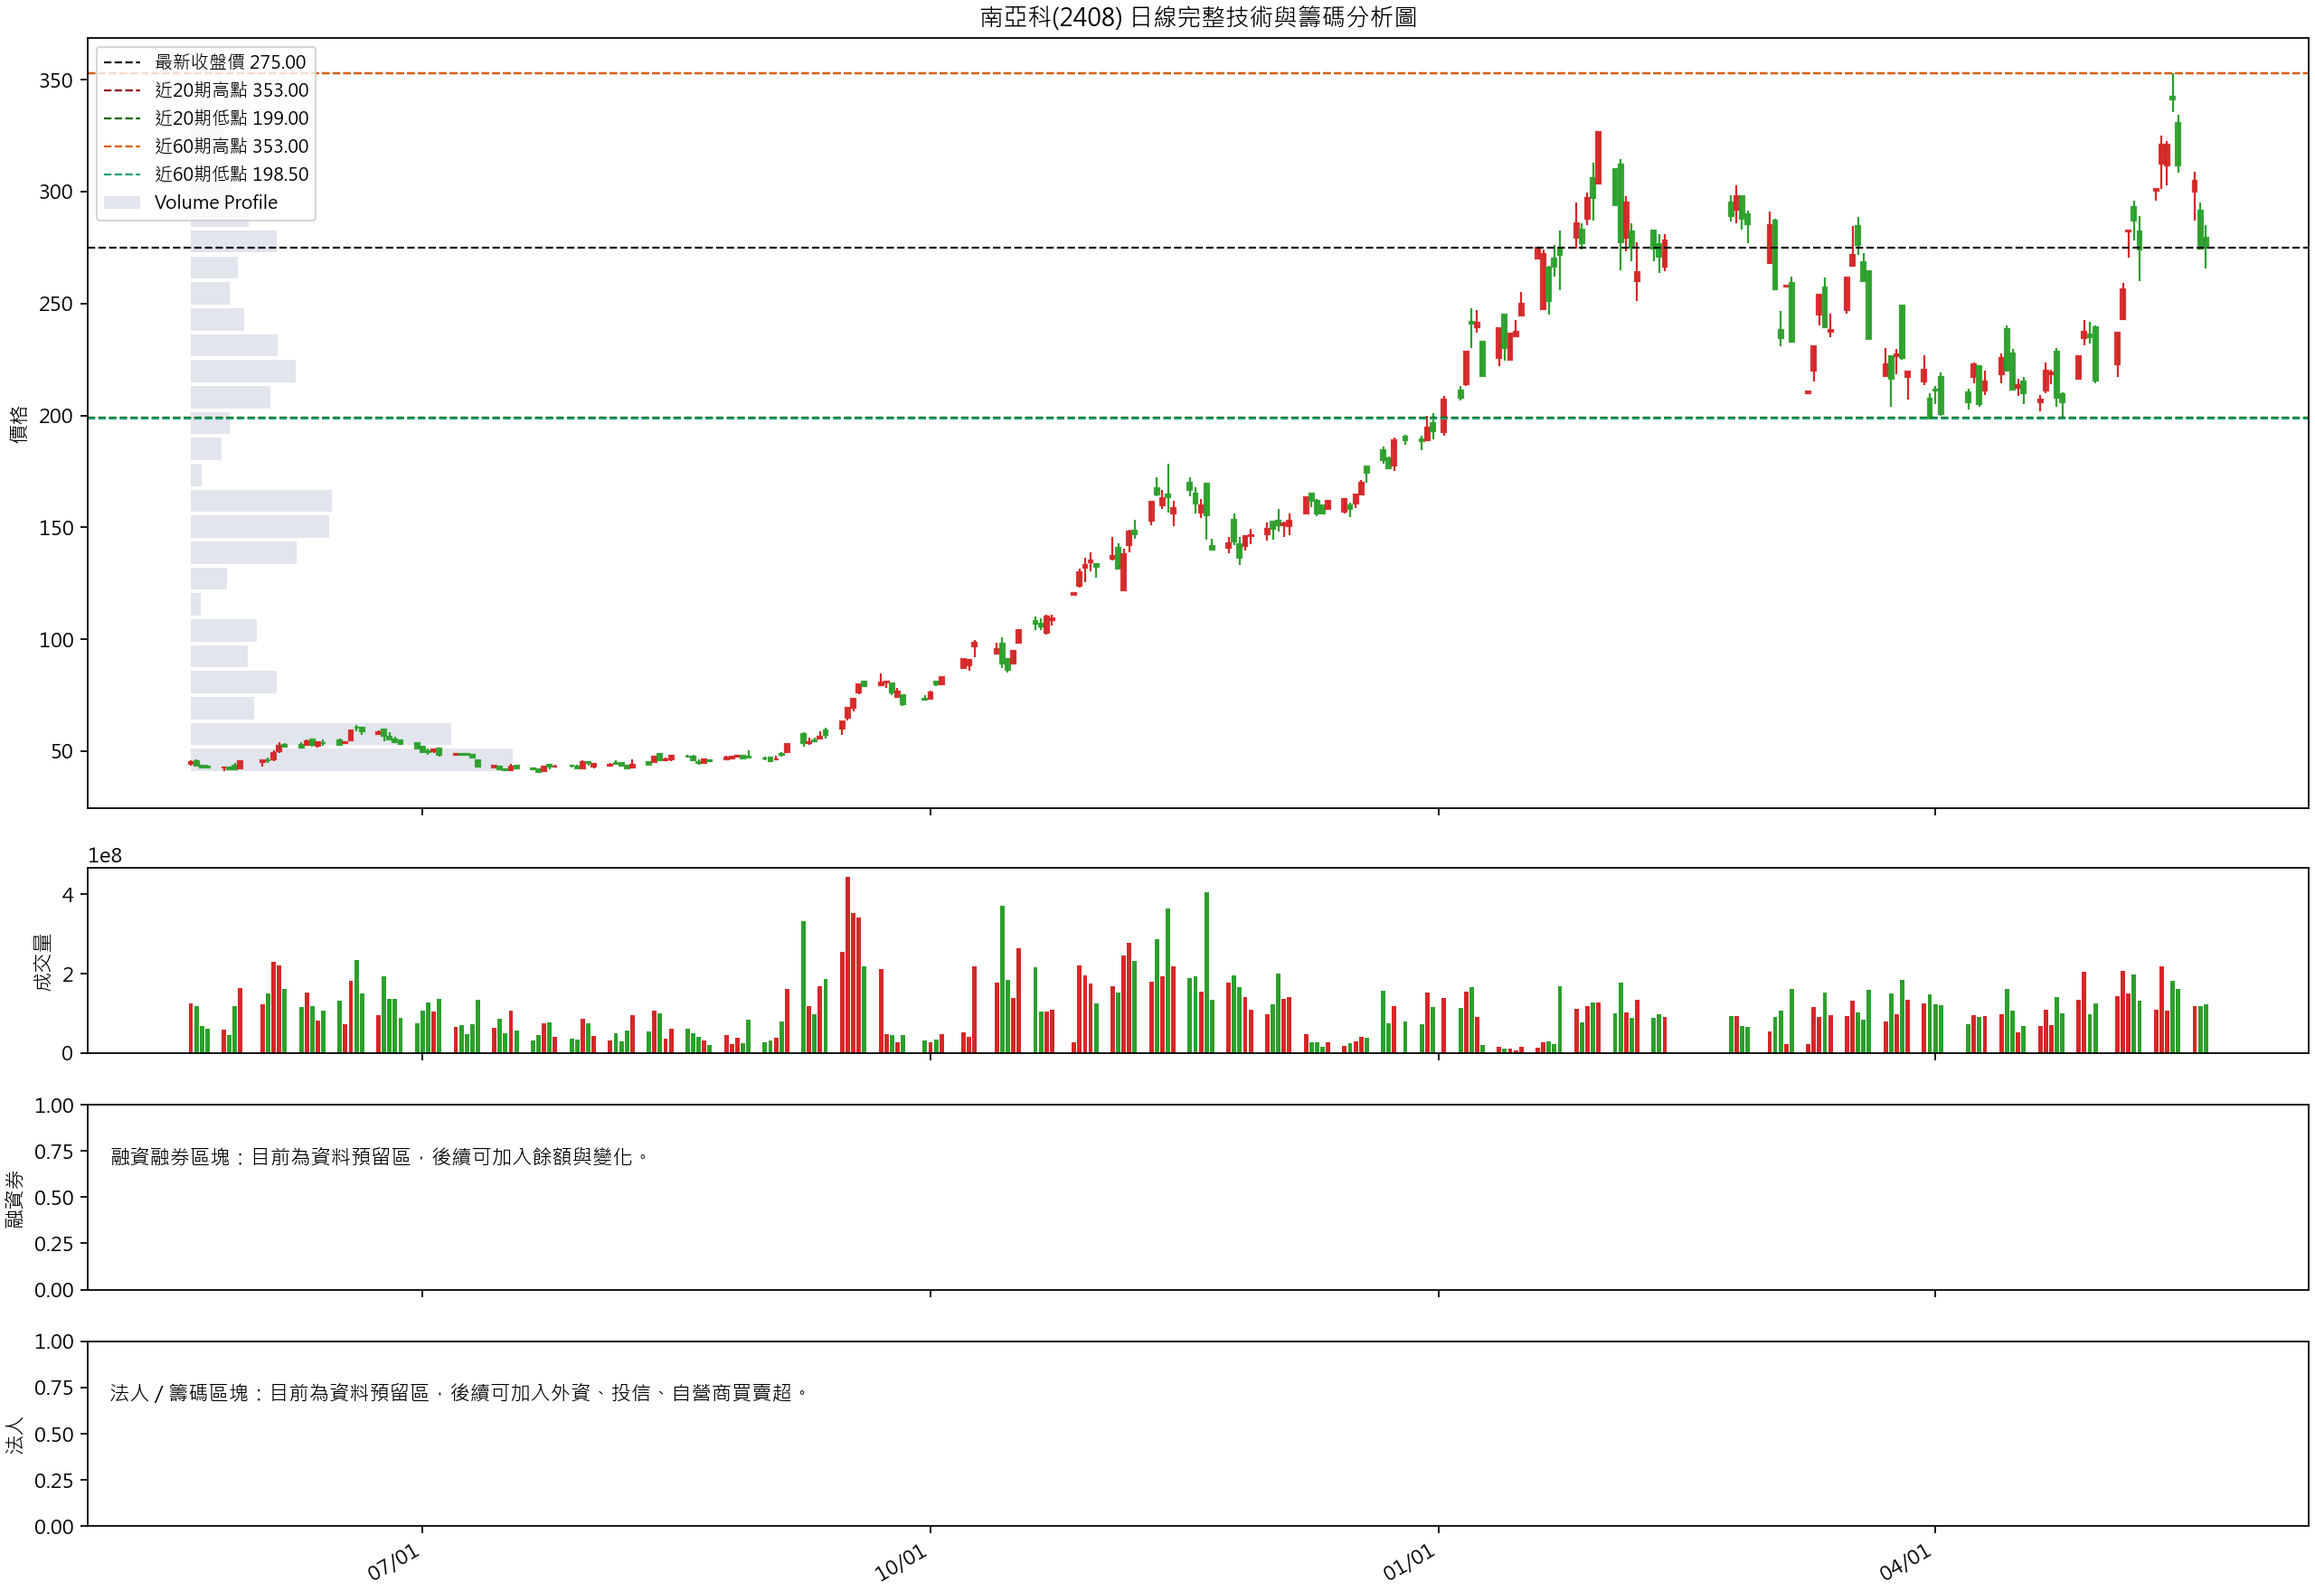
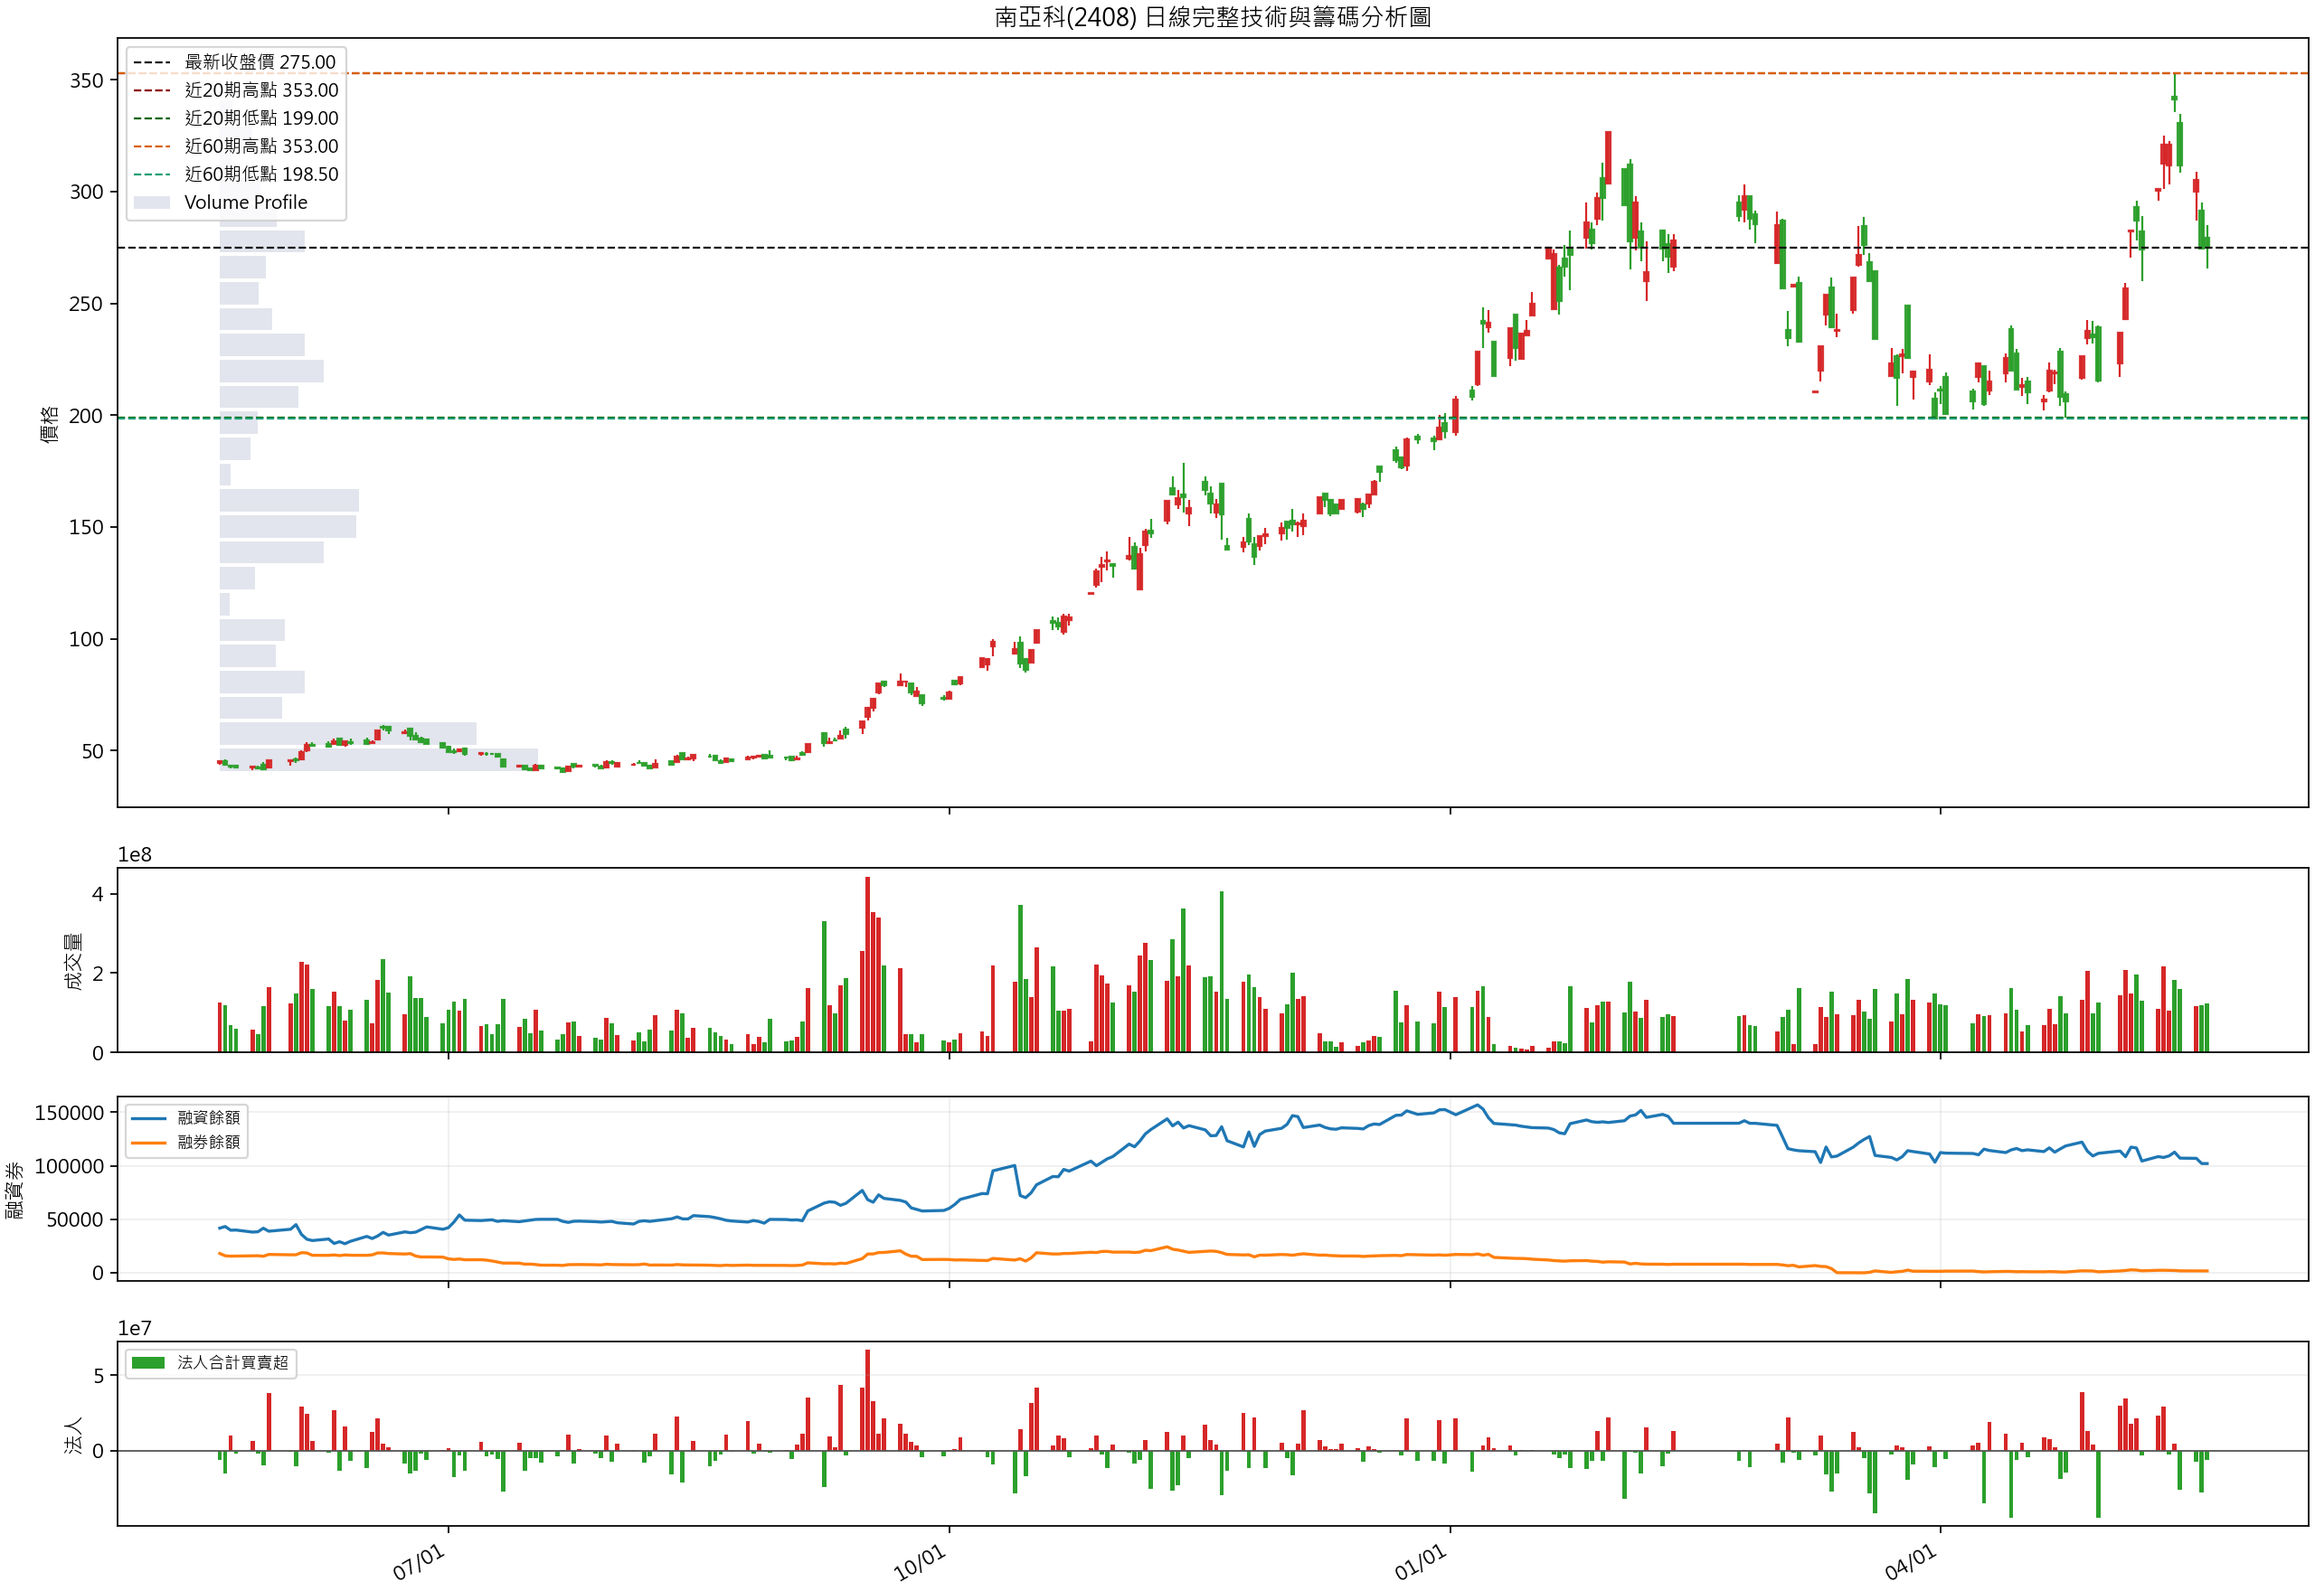
Publish stock report 2408_2026-05-20

diff --git a/2408_2026-05-20/index.html b/2408_2026-05-20/index.html
@@ -60,7 +60,7 @@
 <body>
   <header>
     <h1>南亞科(2408) 台股技術分析報告</h1>
-    <div>產生時間：2026-05-20T18:23:32+08:00</div>
+    <div>產生時間：2026-05-20T18:31:01+08:00</div>
   </header>
   <main>
     <section class="panel">
@@ -78,20 +78,20 @@
 <tr><th>valid_trading_days</th><td>244</td></tr>
 <tr><th>ohlcv_python_status</th><td>OK: OHLCV loaded into pandas DataFrame and PNG charts generated</td></tr>
 <tr><th>chart_display_period</th><td>1y daily / weekly / monthly resampled from same OHLCV period</td></tr>
-<tr><th>institutional_period</th><td>not fetched in current stage</td></tr>
-<tr><th>margin_period</th><td>not fetched in current stage</td></tr>
+<tr><th>institutional_period</th><td>2025-05-20 to 2026-05-20 (OK; investors=外資, 外資自營商, 投信, 自營商自行, 自營商避險)</td></tr>
+<tr><th>margin_period</th><td>2025-05-20 to 2026-05-19 (OK; fields=MarginPurchaseTodayBalance, ShortSaleTodayBalance)</td></tr>
 <tr><th>warrant_period</th><td>status chart only; TWSE/TPEx/MOPS/broker sources not fetched yet</td></tr>
 <tr><th>fundamental_period</th><td>status chart only; EPS/monthly revenue not fetched yet</td></tr>
 <tr><th>major_holder_period</th><td>not available; no complete natural person major-holder list claimed</td></tr>
 <tr><th>peer_source_and_list</th><td>peer_themes.json theme rules + FinMind TaiwanStockInfo + TaiwanStockPrice OHLCV; compared=南亞科(2408), 華邦電(2344), 旺宏(2337), 晶豪科(3006), 威剛(3260), 創見(2451), 十銓(4967); failures=none</td></tr>
-<tr><th>generated_at</th><td>2026-05-20T18:23:32+08:00</td></tr>
+<tr><th>generated_at</th><td>2026-05-20T18:31:01+08:00</td></tr>
 <tr><th>timezone</th><td>台北標準時間</td></tr></table>
     </section>
     <section class="panel analysis"><h2>一、圖表重點解讀</h2><ul><li>整體評分為「偏多強勢」（分數 3），主要依據：收盤站上 MA20、收盤站上 MA60、MA20 高於 MA60。</li><li>資料最後交易日為 2026-05-20，最新收盤價 275.00，單日漲跌幅 0.18%；一年區間 40.20～353.00，一年報酬 507.73%。</li><li>趨勢判讀：短中期均線呈多頭排列，價格站在 20 日與 60 日均線上方。 目前 收盤價位於區間中段，短線方向仍需量價確認。</li><li>短線風險 / 空間：距近 20 日低點約 38.19%，距近 20 日高點約 28.36%；量能為近 20 日均量 0.87 倍。</li><li>同族群相對表現：南亞科(2408) 期間報酬 507.73%，排名第 3/7；領先者為 旺宏(2337) 543.84%。</li><li>操作解讀上，若價格突破壓力且量能續增，偏多情境較有延續性；若跌破短線支撐且放量，需優先控管風險。</li></ul></section>
 <section class="panel analysis"><h2>二、日線 / 周線 / 月線趨勢</h2><ul><li>日線：MA20=266.70、MA60=246.88；收盤價相對 20 日均線 偏強。</li><li>MA20上彎，近似變化 9.10%。</li><li>MA60走平，近似變化 0.87%。</li><li>周線：最新周收 275.00，較前一周 -11.72%。</li><li>月線：最新月收 275.00，較前一月 27.61%。</li></ul></section>
 <section class="panel analysis"><h2>三、支撐與壓力</h2><ul><li>短線支撐觀察近 20 日低點 199.00，中線支撐觀察近 60 日低點 198.50。</li><li>短線壓力觀察近 20 日高點 353.00，中線壓力觀察近 60 日高點 353.00。</li><li>若收盤有效突破 353.00，短線結構轉強；若跌破 199.00，短線需防守轉弱。</li></ul></section>
 <section class="panel analysis"><h2>四、量價結構</h2><ul><li>最新成交量 123,868,197，近 20 日均量 141,955,662，近 60 日均量 115,173,357。</li><li>最新量能約為近 20 日均量的 0.87 倍，近 20 日上漲日 10 天、下跌日 8 天。</li><li>Volume Profile 可觀察過去一年成交量較集中的價格帶，作為籌碼密集區參考。</li></ul></section>
-<section class="panel analysis"><h2>五、融資融券與法人 / 籌碼成本</h2><ul><li>目前已在圖中保留融資融券與法人區塊，但本次尚未接入 TaiwanStockMarginPurchaseShortSale 與 TaiwanStockInstitutionalInvestorsBuySell。</li><li>因此不估算外資、投信、自營商成本，也不以不完整資料影響 01～03 K 線主圖。</li></ul></section>
+<section class="panel analysis"><h2>五、融資融券與法人 / 籌碼成本</h2><ul><li>融資融券來源：TaiwanStockMarginPurchaseShortSale，期間 2025-05-20 to 2026-05-19，筆數 243。</li><li>融資餘額目前 102,047，變化 -11,173（-9.87%）。</li><li>近 5 日融資餘額目前 102,047，變化 -5,685（-5.28%）。</li><li>融券餘額目前 1,716，變化 793（85.92%）。</li><li>融資融券只能用來觀察槓桿籌碼變化，不等同真實散戶或主力成本。</li><li>法人資料來源：TaiwanStockInstitutionalInvestorsBuySell，期間 2025-05-20 to 2026-05-20，原始筆數 1220。</li><li>最新一日法人合計買賣超 -6,112,439，近 5 日合計 -61,489,779，近 20 日合計 68,397,730。</li><li>最新一日分項：外資 -1,096,683、投信 -2,740,000、自營商自行 -1,977,250、自營商避險 -298,506、外資自營商 0。</li><li>法人買賣超可作籌碼方向輔助，但不代表完整持股成本；成本仍需搭配成交量密集區與價格區間估算。</li></ul></section>
 <section class="panel analysis"><h2>六、權證與市場情緒</h2><ul><li>目前為狀態圖；完整權證分析需再接 TWSE、TPEx、MOPS 或券商公開權證資料。</li><li>FinMind 不作為完整權證唯一來源；未取得履約價、認購/認售分布前，不推論權證情緒。</li></ul></section>
 <section class="panel analysis"><h2>七、同族群比較</h2><ul><li>比較來源：peer_themes.json theme rules + FinMind TaiwanStockInfo + TaiwanStockPrice OHLCV</li><li>比較依據：主題規則：記憶體（來源：peer_themes.json）</li><li>比較清單：南亞科(2408)、華邦電(2344)、旺宏(2337)、晶豪科(3006)、威剛(3260)、創見(2451)、十銓(4967)</li><li>同期間相對報酬排序：旺宏(2337) 543.84%、華邦電(2344) 522.64%、南亞科(2408) 507.73%、威剛(3260) 337.43%、晶豪科(3006) 321.40%、十銓(4967) 245.70%</li><li>此圖標示為同產業候選比較，不等同精準子產業或主題族群。</li></ul></section>
 <section class="panel analysis"><h2>八、基本面 EPS / 月營收</h2><ul><li>目前尚未接入 EPS、月營收與股利資料；後續可分階段補入 TaiwanStockMonthRevenue、PER/PBR 與股利資料。</li><li>在基本面資料未取得前，不用推測方式補 EPS 或月營收。</li></ul></section>
